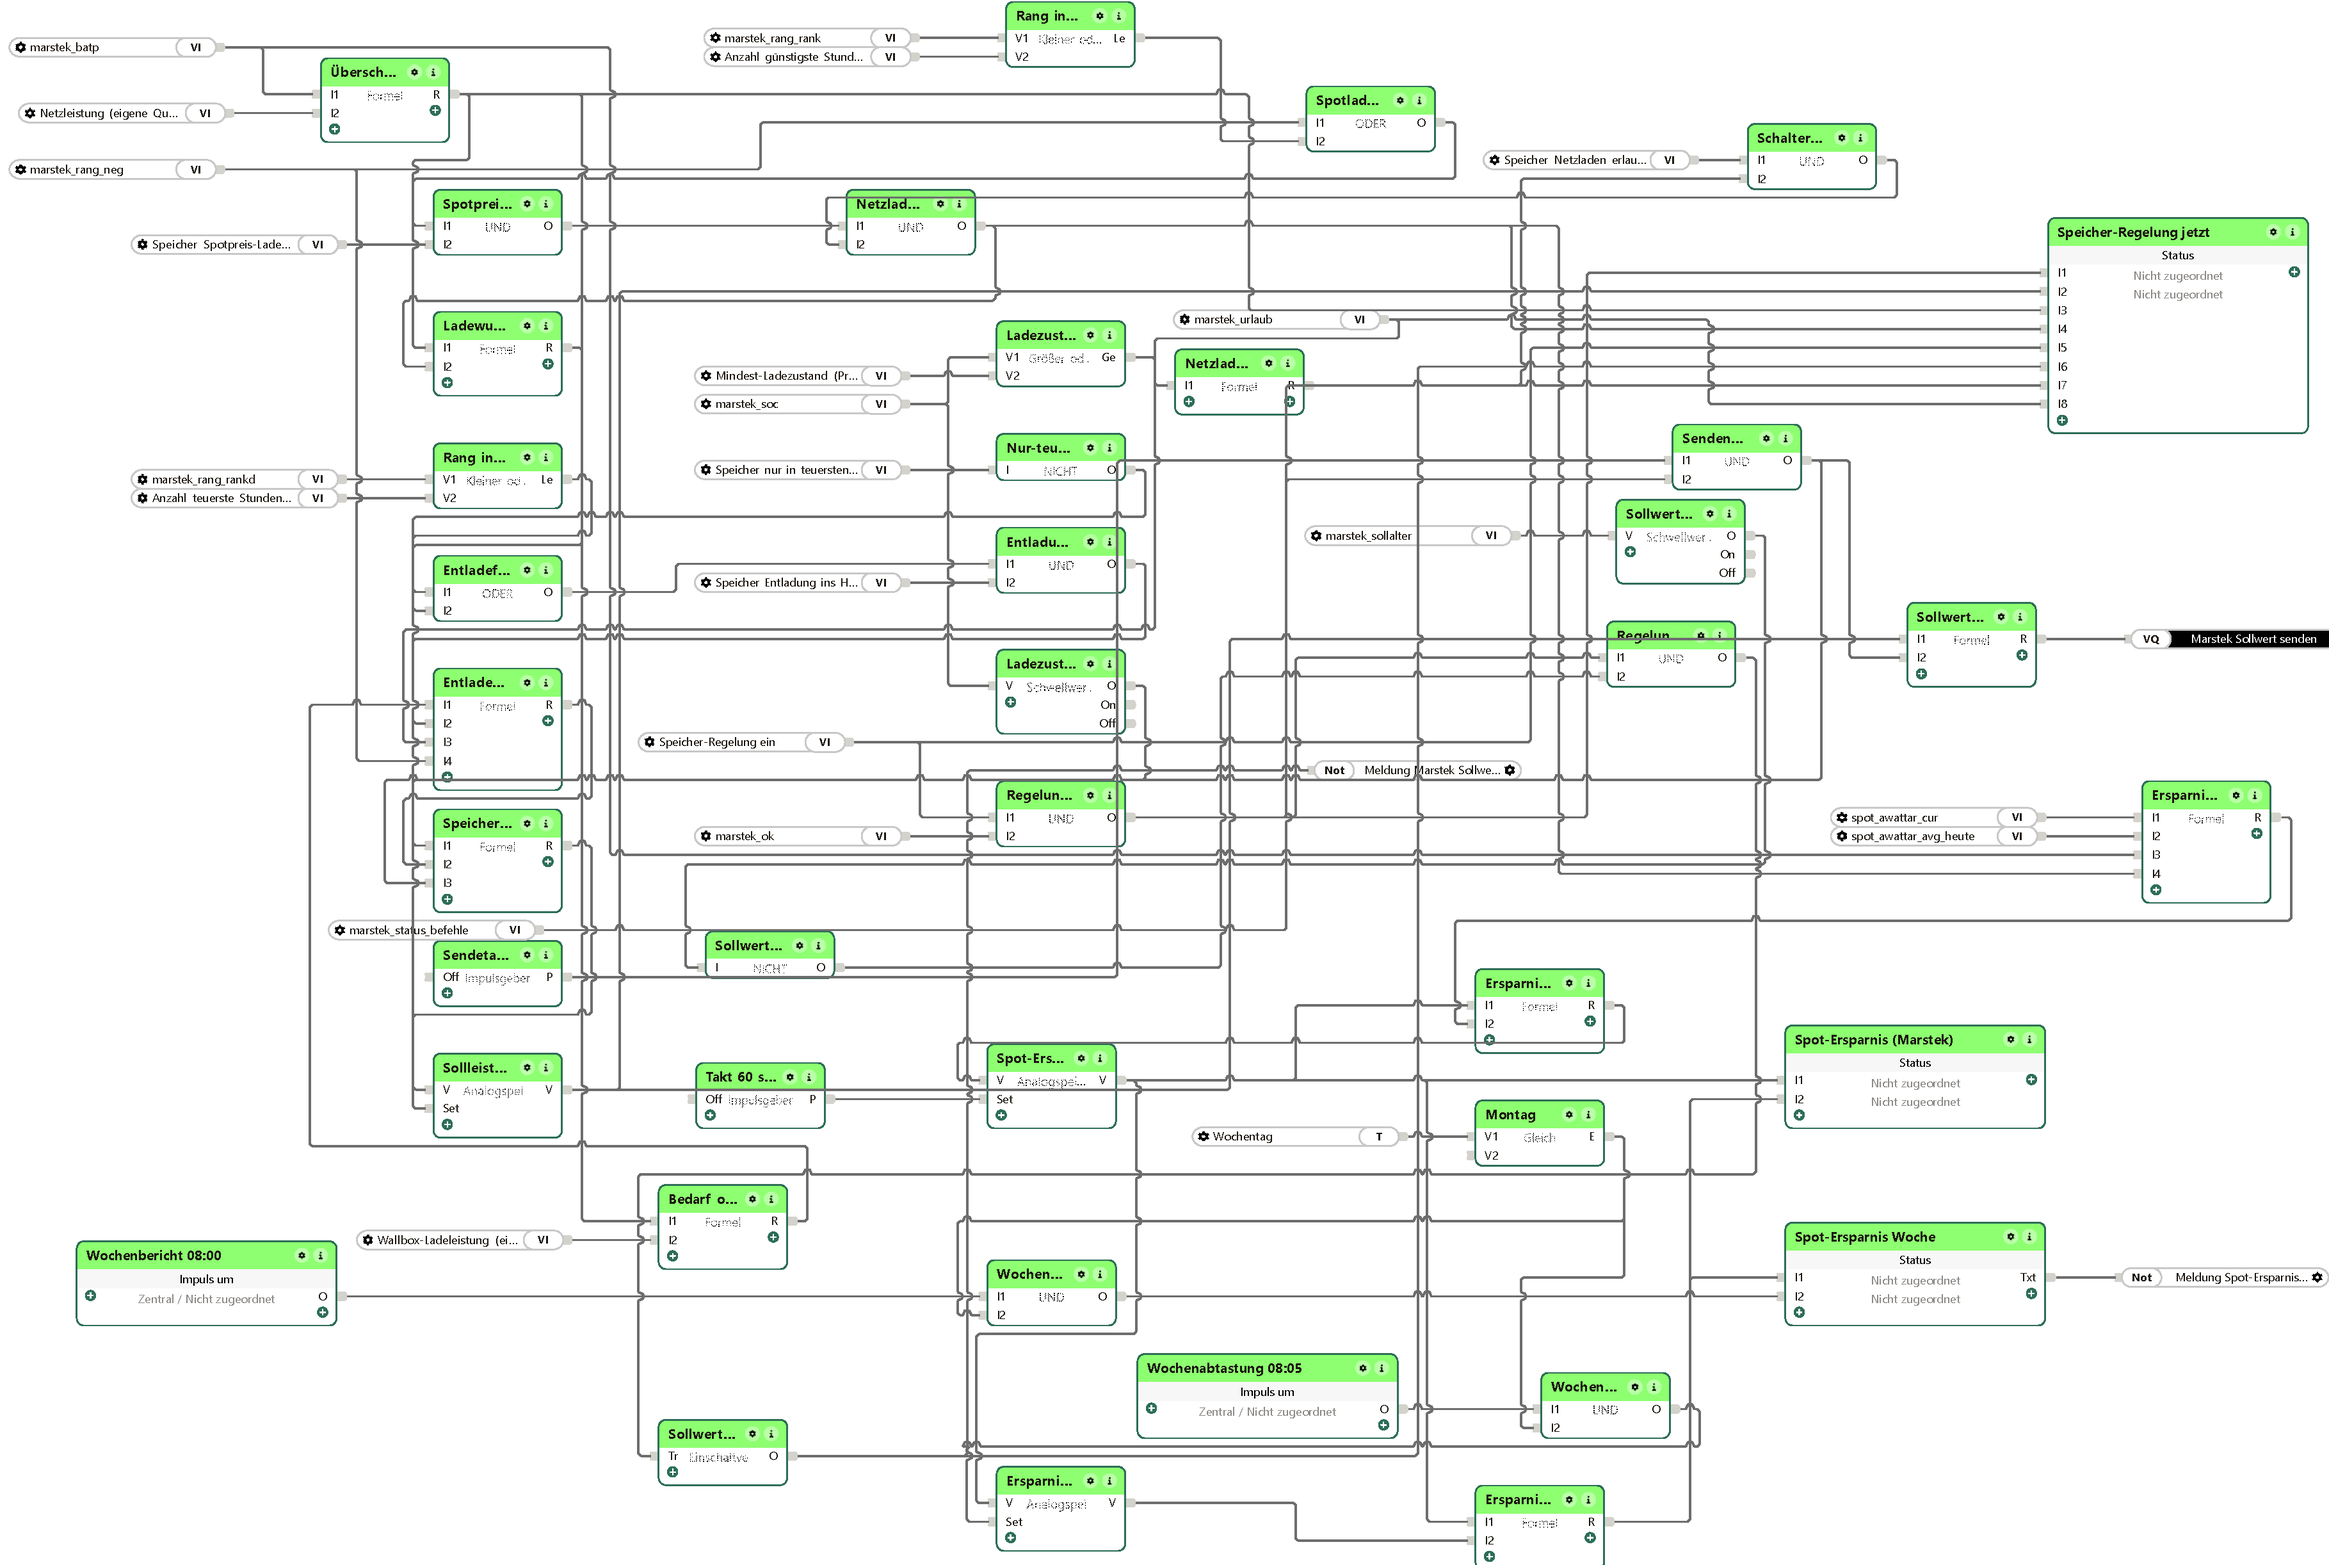
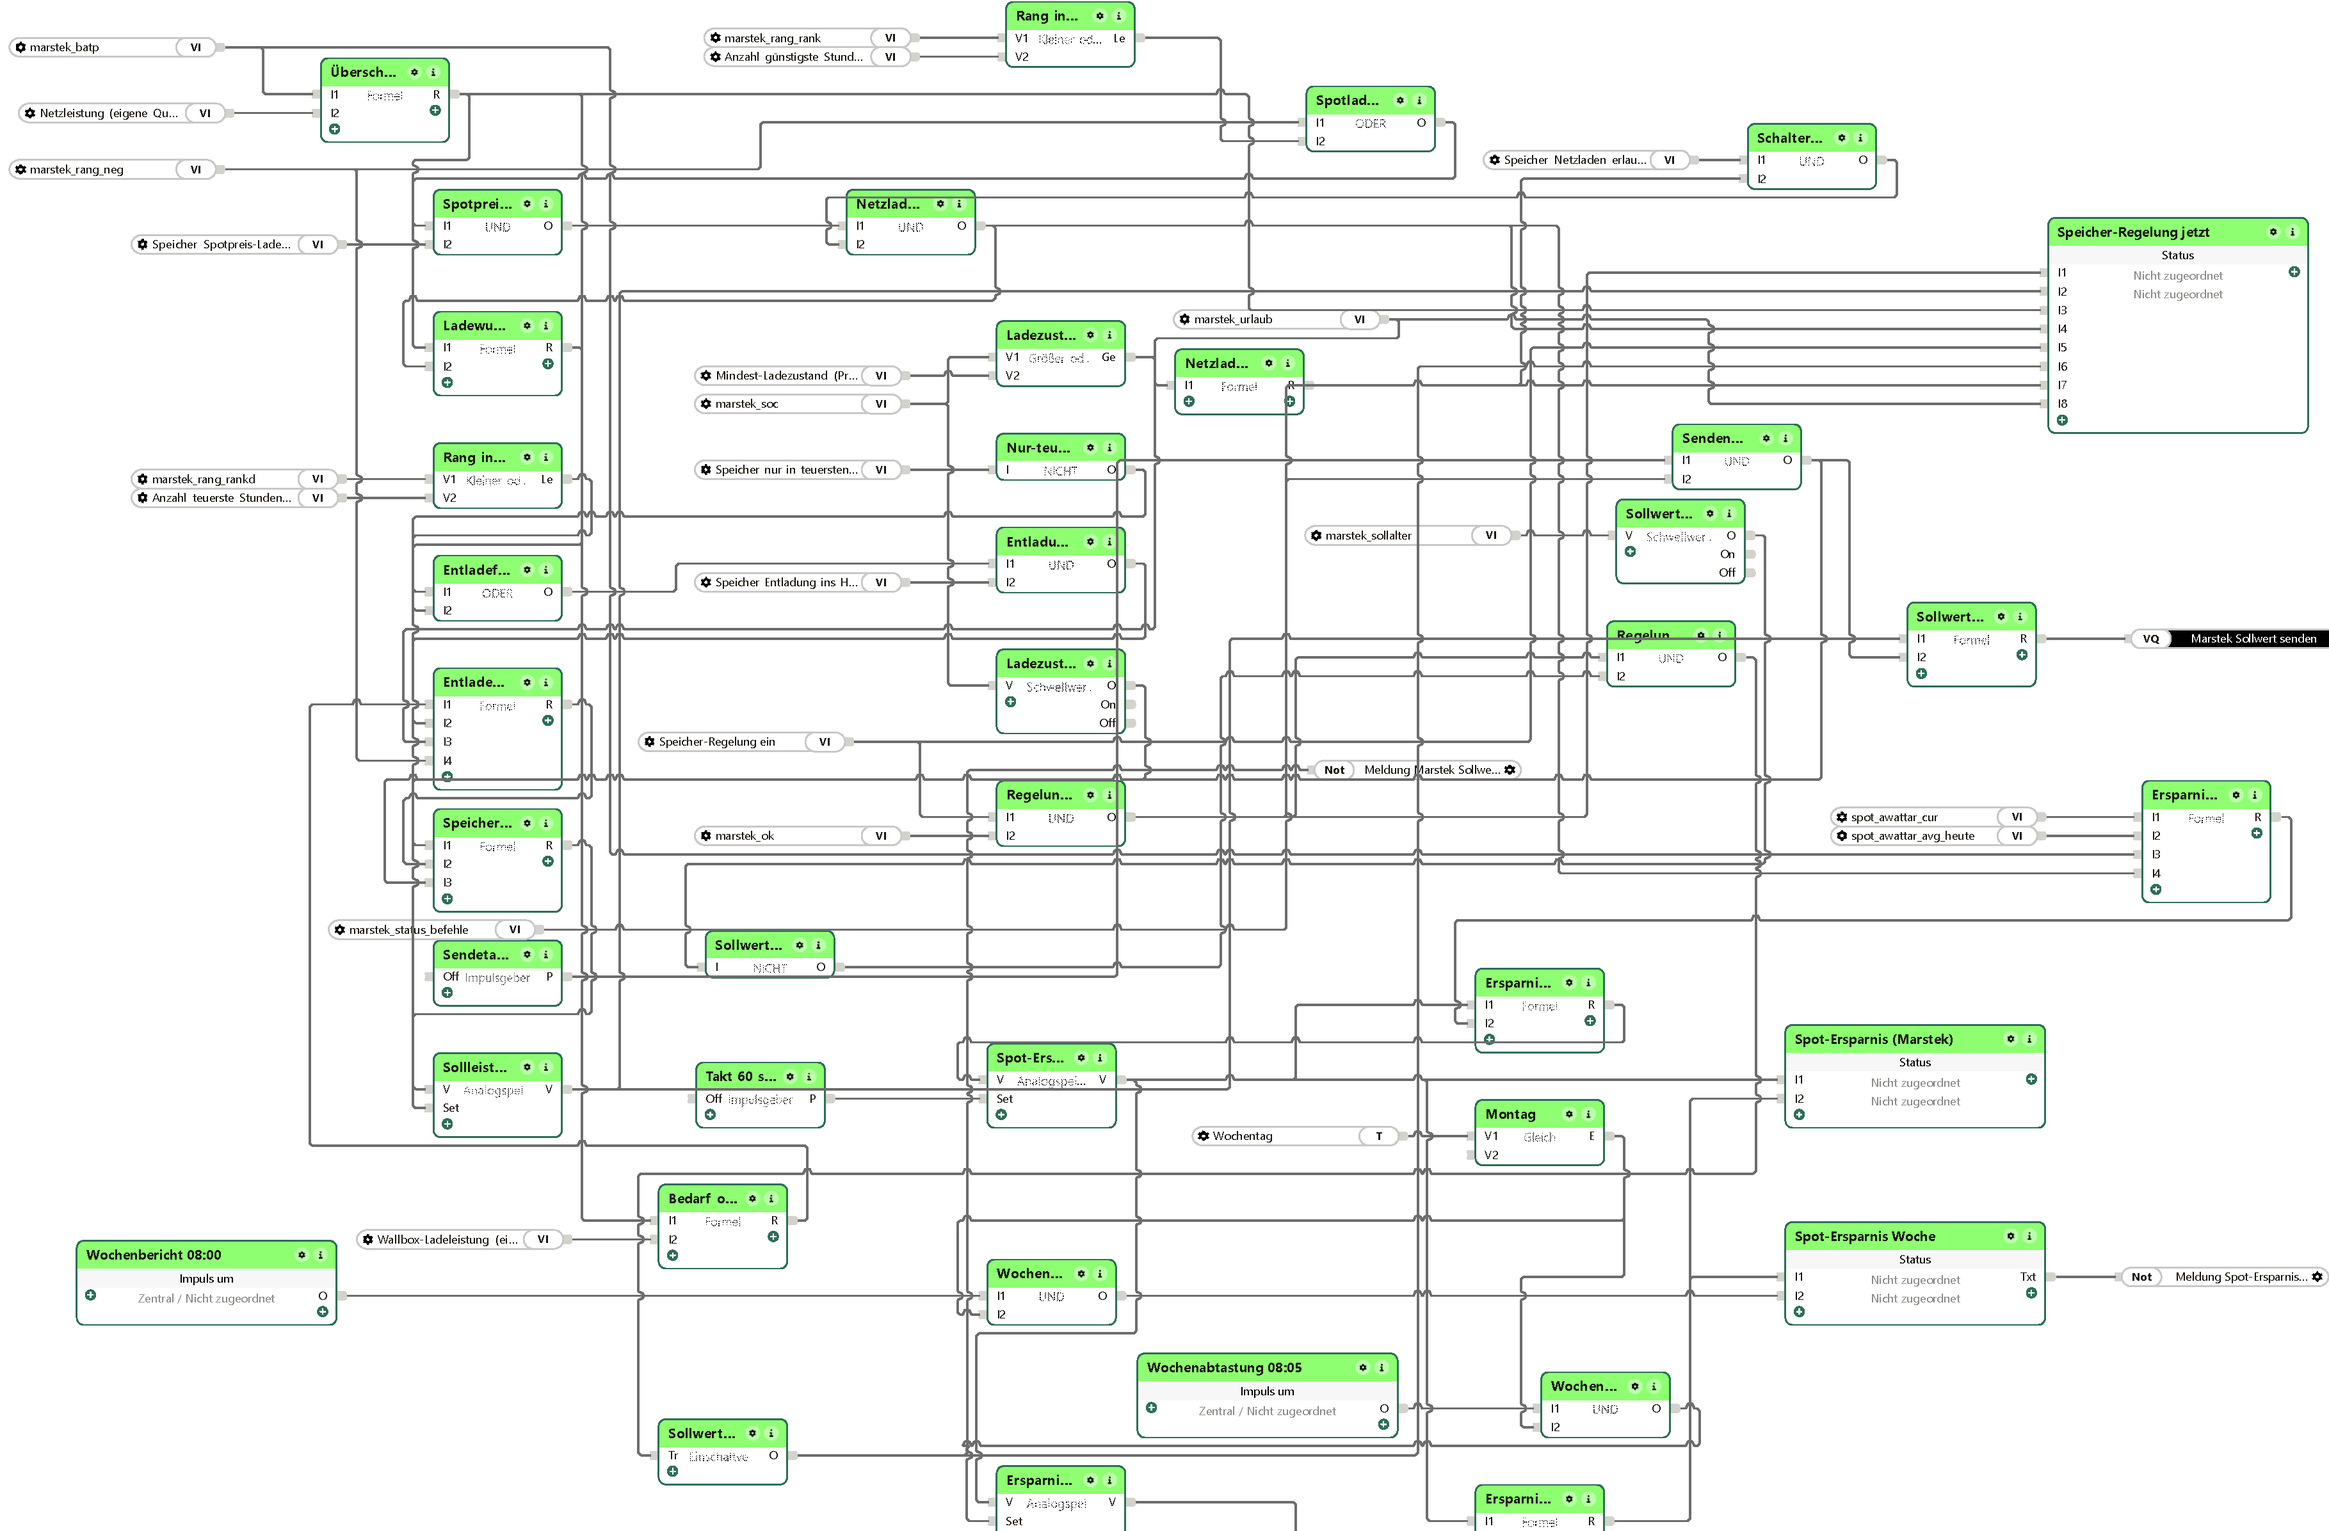
MarstekVenus 1.1.29: Bilder der Einbindung erneuert (Musterprojekt 614cd0f)
Bilder der Einbindung erneuert: Das Bild der Seite „Marstek Venus E Steuerung“ zeigt die neu angeordnete Seite. Sonst keine Änderung gegen 1.1.28.

Changed region(s): [[0.0, 0.0, 1.0, 1.0], [0.0621, 0.1547, 0.1864, 0.1856]]

diff --git a/README.md b/README.md
@@ -13,6 +13,10 @@ den Auto-Modus des Geräts zurück.
 
 Kompatibel mit LoxBerry 3.x und **LoxBerry 4** (reines PHP, läuft mit PHP 7.4 und 8.x).
 
+## Neu in 1.1.29
+
+Bilder der Einbindung erneuert: Das Bild der Seite „Marstek Venus E Steuerung“ zeigt die neu angeordnete Seite. Sonst keine Änderung gegen 1.1.28.
+
 ## Neu in 1.1.28
 
 Pflegefassung der Nachtwelle (29.10.2026) mit dem Nachzug der Anbieterregel für `haus/speicher`:
